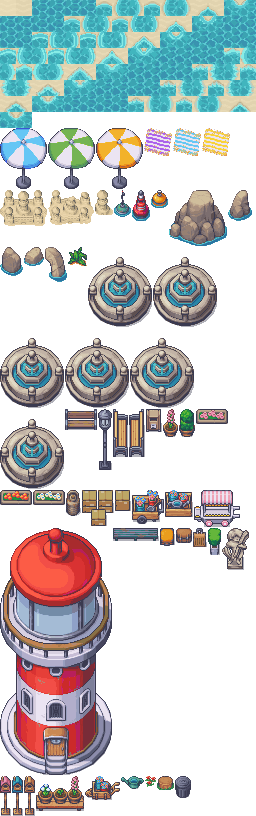
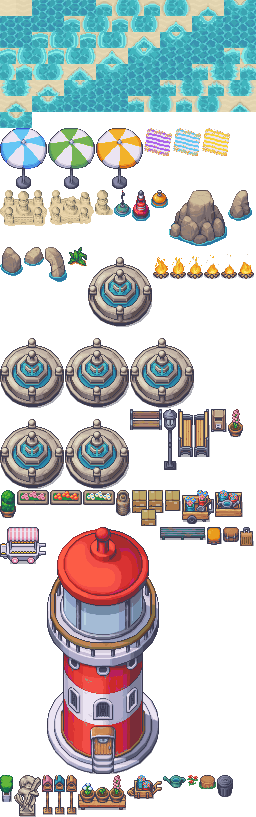
Fogata animada de Modern Exteriors (seis cuadros, luz cálida que titila) en el claro del Bosque profundo; la animación de la fuente sirve ahora para cualquier pieza animada del pack

diff --git a/src/scenes/WorldScene.ts b/src/scenes/WorldScene.ts
@@ -462,14 +462,14 @@ export class WorldScene extends Phaser.Scene {
     cam.setBounds(bx, by, Math.max(w, vw), Math.max(h, vh));
   }
 
-  /** The square's fountain runs: the pack's six frames cycled on the prop's image (still when effects are low). */
-  private animateFountain(img: Phaser.GameObjects.Image, w: number, h: number) {
+  /** The pack's animated props (the fountain's water, the campfire): six frames cycled on the prop's image (still when effects are low). */
+  private animateProp(id: string, img: Phaser.GameObjects.Image, w: number, h: number) {
     if (lowFx() || settings.reduceMotion) return;
     const keys: string[] = [];
     for (let f = 0; f < 6; f++) {
-      const key = `fountain_anim_${f}`;
+      const key = `${id}_anim_${f}`;
       if (!this.textures.exists(key)) {
-        const c = exteriorObject(`fountain_frame_${f}`, w, h);
+        const c = exteriorObject(`${id}_frame_${f}`, w, h);
         if (!c) return;
         this.textures.addCanvas(key, c);
       }
@@ -736,7 +736,7 @@ export class WorldScene extends Phaser.Scene {
       const px = p.x * TILE + (p.def.w * TILE) / 2;
       const py = (p.y + p.def.h) * TILE;
       const img = this.add.image(px, py, key).setOrigin(0.5, 1);
-      if (p.key === 'fountain') this.animateFountain(img, p.def.sw, p.def.sh);
+      if (p.key === 'fountain' || p.key === 'campfire') this.animateProp(p.key, img, p.def.sw, p.def.sh);
       // wall-mounted props (on wall face rows) render behind actors
       const onWall = def.ground[p.y]?.[p.x] === 'W' || def.ground[p.y]?.[p.x] === 'V';
       // awnings and posters sit on building fronts; puddles lie on the ground

diff --git a/src/data/deepForest.ts b/src/data/deepForest.ts
@@ -26,7 +26,7 @@ export function deepForest(): ZoneDef {
   // the pond, north of the trail's last stretch: a rounded shape, not a square
   for (let y = 14; y < 21; y++) for (let x = 26; x < 35; x++) if (((x + 0.5 - 30.5) / 4) ** 2 + ((y + 0.5 - 17.3) / 2.8) ** 2 < 1) b.g[y][x] = 'w';
   treeBorder(b, [[W - 1, door], [W - 1, door + 1]], ['tree_dark']);
-  b.prop('stump', 15, 12).prop('stonelantern', 12, 10).prop('stonelantern', 19, 10).prop('bench', 13, 15)
+  b.prop('stump', 15, 12).prop('campfire', 16, 13).prop('stonelantern', 12, 10).prop('stonelantern', 19, 10).prop('bench', 13, 15)
     .prop('mushroom', 17, 14).prop('mushroom', 18, 11).prop('flowers_lav', 12, 14).prop('bush_berry', 19, 15)
     .prop('reeds', 27, 15).prop('reeds', 33, 15).prop('reeds', 33, 19).prop('bigrock', 26, 20)
     .prop('mushroom', 10, 6).prop('mushroom', 6, 16).prop('bush_berry', 35, 4);

diff --git a/src/data/props.ts b/src/data/props.ts
@@ -74,6 +74,9 @@ export const PROPS: Record<string, PropDef> = {
   fountain: P('fountain', 3, 2, 48, 56, '', '', { anim: 'water' }),
   // frames of the fountain's running water (Modern Exteriors), cycled by the scene; never placed on their own
   ...Object.fromEntries([0, 1, 2, 3, 4, 5].map((f) => [`fountain_frame_${f}`, P('fountain', 3, 2, 48, 56)])),
+  // a crackling campfire (Modern Exteriors), its warm flickering light and its six frames
+  campfire: P('stonelantern', 1, 1, 16, 32, '#f08a3c', '', { light: '#ffb050', sombra: 'contacto' }),
+  ...Object.fromEntries([0, 1, 2, 3, 4, 5].map((f) => [`campfire_frame_${f}`, P('stonelantern', 1, 1, 16, 32)])),
   deco_breadcart: P('deco_breadcart', 2, 1, 32, 34, '#c2604a', ''),
   deco_vegcrates: P('deco_vegcrates', 2, 1, 32, 28),
   deco_sacks: P('deco_sacks', 2, 1, 32, 26, '#e6dcc2'),

diff --git a/scripts/build-limezu-exteriors.py b/scripts/build-limezu-exteriors.py
@@ -28,6 +28,7 @@ SHEETS = {
     'sea': 'Animated_16x16/Animated_Terrains_16x16/Sea_Water_Tileset_Basic_16x16.png',
     'seacorner': 'Animated_16x16/Animated_Terrains_16x16/Sea_Water_Tileset_Outer_Corners_16x16.png',
     'fountain_anim': 'Animated_16x16/Animated_sheets_16x16/Garden_Fountain_5_16x16.png',
+    'campfire_anim': 'Animated_16x16/Animated_sheets_16x16/Campfire_16x16.png',
 }
 _sheets = {}
 
@@ -138,6 +139,10 @@ def add_single(key, name, replaces, folder, single):
 # Plaza: the fountain, its benches, street lamps, mailbox, pots and planters on the flower beds.
 # the square's fountain with running water: the pack's six-frame animation (frame 0 is the still drawing)
 add('fountain', 'Fuente de la plaza', ['fountain', 'fountain_frame_0'], 'fountain_anim', (0, 0, 64, 80))
+# a campfire for the forest clearing: six frames of 16x32
+add('campfire', 'Fogata', ['campfire', 'campfire_frame_0'], 'campfire_anim', (0, 0, 16, 32))
+for f in range(1, 6):
+    add(f'campfire_f{f}', f'Fogata (cuadro {f})', [f'campfire_frame_{f}'], 'campfire_anim', (f * 16, 0, 16, 32))
 for f in range(1, 6):
     add(f'fountain_f{f}', f'Fuente de la plaza (cuadro {f})', [f'fountain_frame_{f}'], 'fountain_anim', (f * 64, 0, 64, 80))
 add_single('bench', 'Banco de plaza', ['bench', 'wharf_bench'], '3_City_Props', 'City_Props_16x16_Bench_7')
